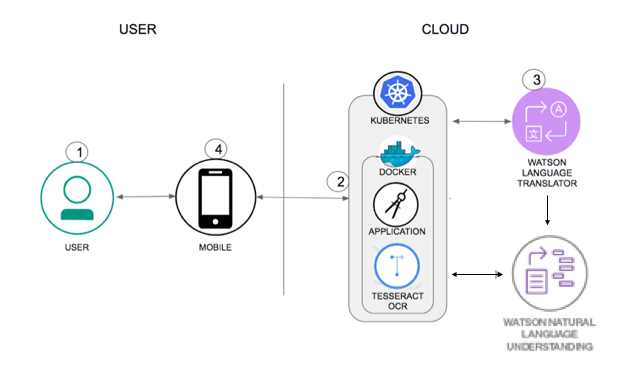
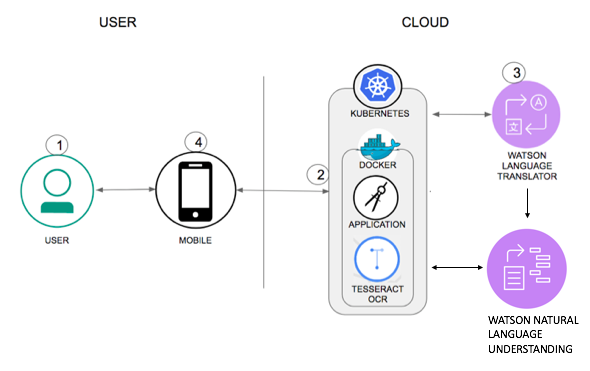
updated arch diagram and readme

diff --git a/README.md b/README.md
@@ -153,7 +153,7 @@ $ docker build -t snap-translate-server .
 docker run --rm -it -p 3000:3000 snap-translate-server
 ```
 * You can now access the `server` API using URL: `http://localhost:3000`
-```
+
 ## 5. Run the mobile application
 
 Steps below will help you to deploy the `snap-and-translate/mobile` mobile application.
